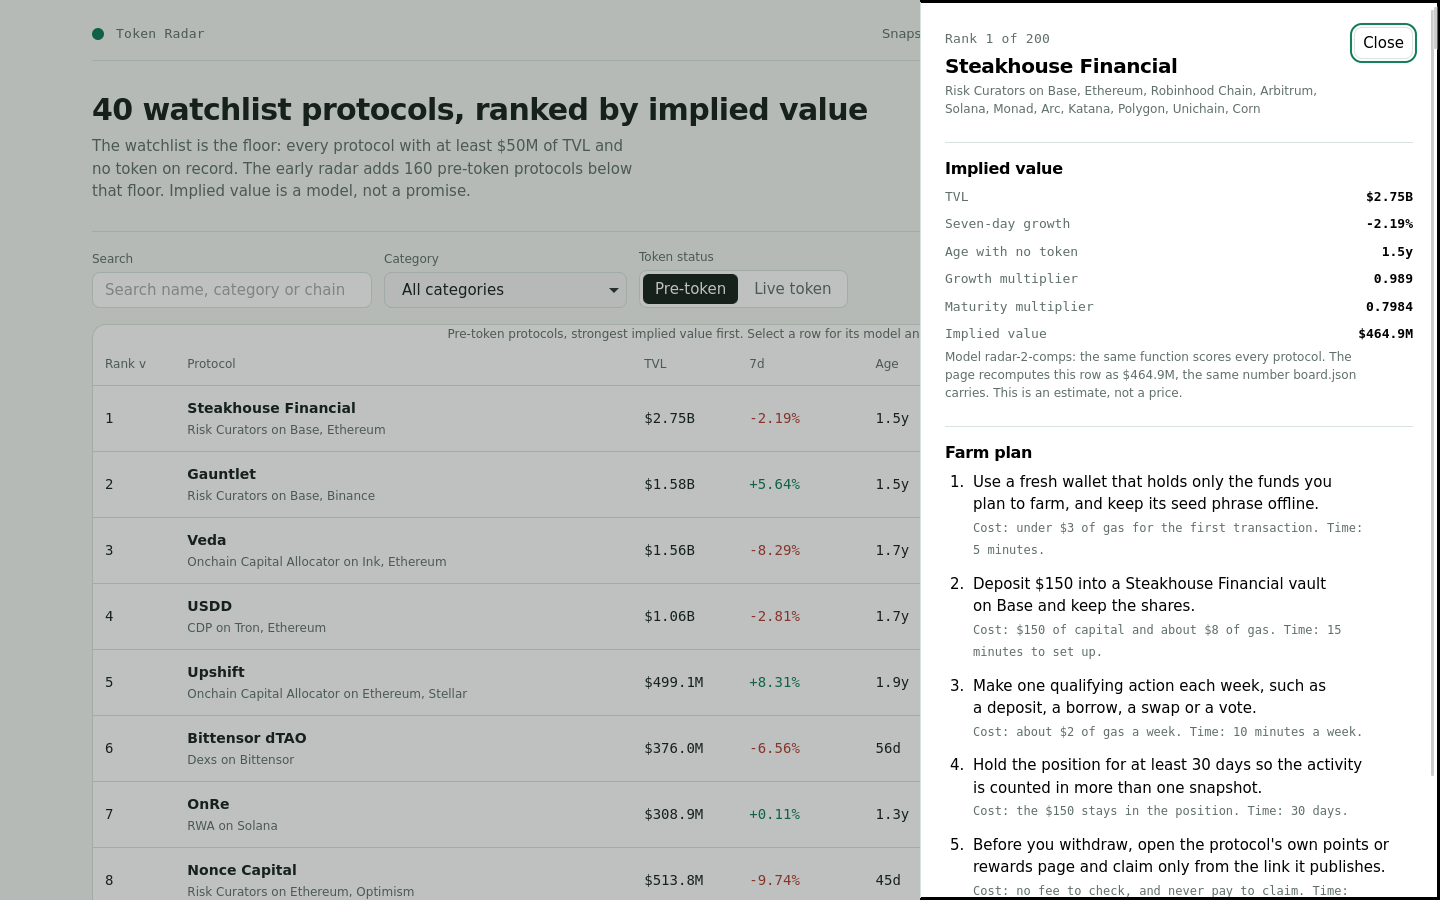
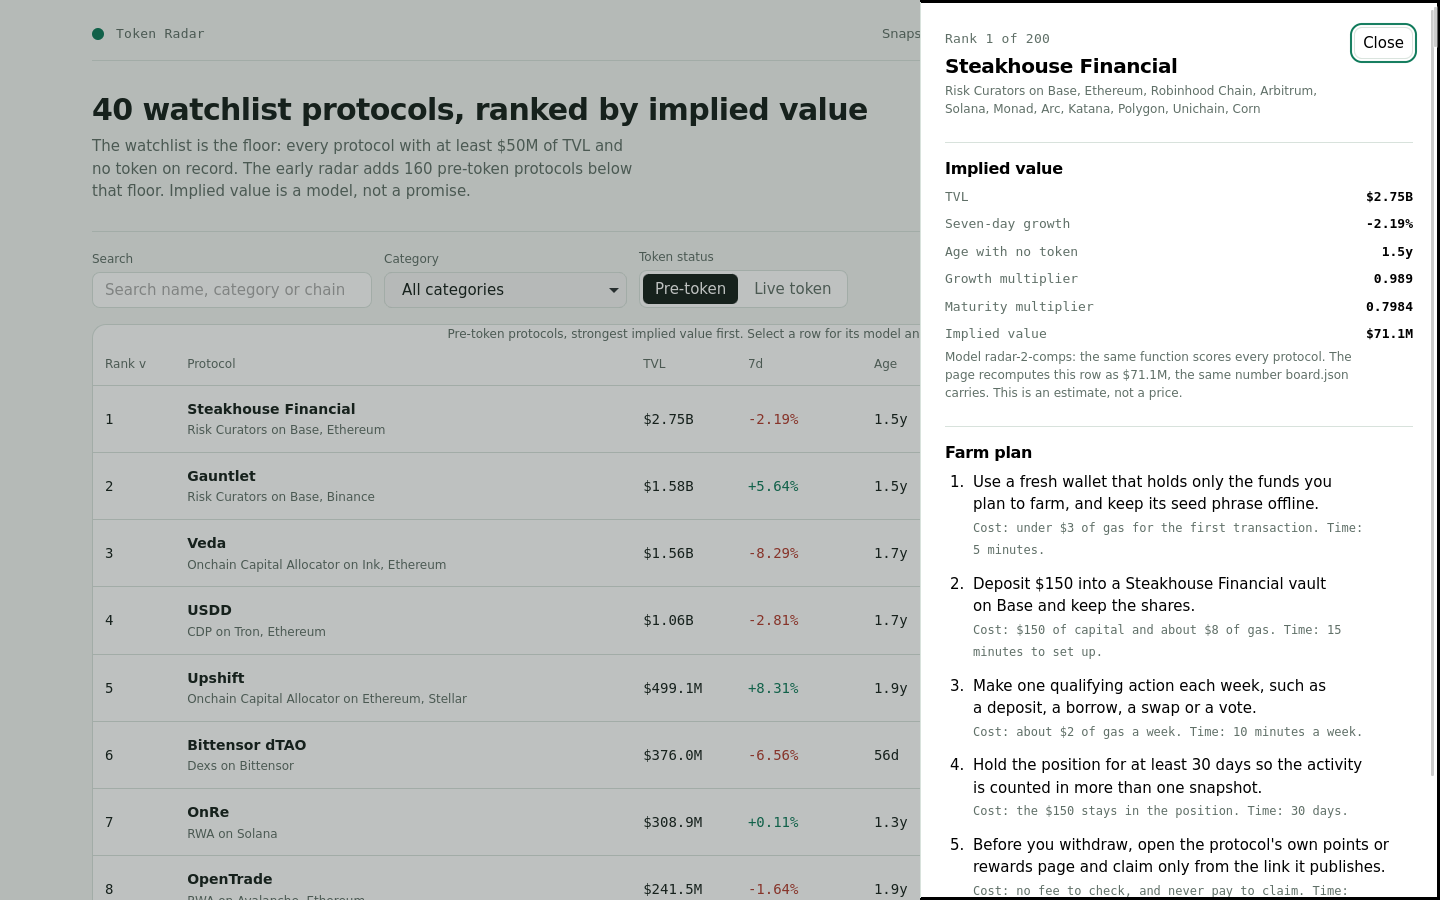
radar-2-comps: log-log size curve + walk-forward validation shown + farm/thin/skip verdicts with net economics

diff --git a/lib/model.ts b/lib/model.ts
@@ -77,6 +77,19 @@ export interface Comps {
   global: number;
   byCategory: Record<string, CompMultiple>;
   live_n: number;
+  validation: Validation;
+  scale_slope: number;
+  ref_tvl: number;
+  reg_a: number;
+  reg_b: number;
+}
+
+/** Out-of-sample test of the comps curve: fit on a train split, predict the held-out live tokens. */
+export interface Validation {
+  train_n: number;
+  test_n: number;
+  median_ape: number;
+  within_2x: number;
 }
 
 /** The median of a non-empty list of numbers. */
@@ -112,14 +125,60 @@ export function fitComps(snapshot: Snapshot): Comps {
   for (const [c, list] of groups) {
     if (list.length >= 3) byCategory[c] = { multiple: clampMultiple(median(list)), n: list.length };
   }
-  return { global, byCategory, live_n: live.length };
+  const validation = walkForward(live);
+  const { a, b } = logLogFit(live);
+  return { global, byCategory, live_n: live.length, validation, scale_slope: b, ref_tvl: median(live.map((p) => p.tvl_usd)), reg_a: a, reg_b: b };
 }
 
-/** The launch multiple one protocol inherits: its category's fitted comp, else the global median. */
+/** OLS fit of log(mcap) = a + b*log(tvl) on the live tokens: the size curve the launch value follows. */
+function logLogFit(live: SnapshotProtocol[]): { a: number; b: number } {
+  const xs = live.map((p) => Math.log(p.tvl_usd));
+  const ys = live.map((p) => Math.log(p.mcap_usd as number));
+  const n = xs.length;
+  if (n < 2) return { a: Math.log(MODEL.base_multiple), b: 1 };
+  const mx = xs.reduce((s, x) => s + x, 0) / n;
+  const my = ys.reduce((s, y) => s + y, 0) / n;
+  let num = 0, den = 0;
+  for (let i = 0; i < n; i++) { num += (xs[i]! - mx) * (ys[i]! - my); den += (xs[i]! - mx) ** 2; }
+  const b = den > 0 ? num / den : 1;
+  return { a: my - b * mx, b: Math.max(0.2, Math.min(1.8, b)) };
+}
+
+/** The regression's predicted mcap for a TVL, clamped to a sane launch range relative to TVL. */
+function regMcap(tvl: number, a: number, b: number): number {
+  return Math.exp(a + b * Math.log(tvl));
+}
+
+/** Walk-forward test: hold out every third live token, fit the log-log curve on the rest, predict the held-out mcap, and report the median absolute percentage error and the share within 2x. */
+function walkForward(live: SnapshotProtocol[]): Validation {
+  const train = live.filter((_, i) => i % 3 !== 0);
+  const test = live.filter((_, i) => i % 3 === 0);
+  const { a, b } = logLogFit(train);
+  const apes: number[] = [];
+  let within = 0;
+  for (const p of test) {
+    const pred = regMcap(p.tvl_usd, a, b);
+    const actual = p.mcap_usd as number;
+    apes.push(Math.abs(pred - actual) / actual);
+    const ratio = pred / actual;
+    if (ratio >= 0.5 && ratio <= 2) within++;
+  }
+  return {
+    train_n: train.length,
+    test_n: test.length,
+    median_ape: apes.length > 0 ? median(apes) : 0,
+    within_2x: test.length > 0 ? within / test.length : 0,
+  };
+}
+
+/** The launch multiple one protocol inherits: the log-log size curve's prediction for its TVL, tilted by how its category's median comp sits relative to the global median. */
 export function multipleFor(p: SnapshotProtocol, comps: Comps): number {
+  if (p.tvl_usd <= 0) return comps.global;
+  const regMult = regMcap(p.tvl_usd, comps.reg_a, comps.reg_b) / p.tvl_usd;
   const c = p.category ?? 'Uncategorized';
   const hit = comps.byCategory[c];
-  return hit !== undefined ? hit.multiple : comps.global;
+  const tilt = hit !== undefined && comps.global > 0 ? Math.max(0.5, Math.min(2, hit.multiple / comps.global)) : 1;
+  return clampMultiple(regMult * tilt);
 }
 
 /** How many pre-token protocols below the watchlist floor the early radar carries, by TVL. */
@@ -159,6 +218,8 @@ export interface BoardRow {
     age_days: number | null;
   };
   farm_steps: string[];
+  verdict: 'farm' | 'thin' | 'skip';
+  expected_net_usd: number;
 }
 
 /** The dashboard's compact view of one row, with farm plans generated in the page. */
@@ -177,6 +238,8 @@ export interface RadarRow {
   growth_multiplier: number;
   maturity_multiplier: number;
   base_multiple: number;
+  verdict: 'farm' | 'thin' | 'skip';
+  expected_net_usd: number;
 }
 
 /** A live-token protocol: it already trades, so the board shows the market's own value, not a model's. */
@@ -269,6 +332,32 @@ export interface BoardSummary {
   live_size: number;
 }
 
+/** A farm's netted economics: expected airdrop capture minus capital and gas, and a farm/thin/skip verdict. */
+export interface FarmEcon {
+  verdict: 'farm' | 'thin' | 'skip';
+  net: number;
+}
+
+/**
+ * Net expected value of farming one protocol, from its own implied value and age. A launch is assumed
+ * to distribute 5% of its implied value to early users; a single modest position captures about 0.02%
+ * of that pool (the share one wallet of many earns). Capital is the position size from capitalFor and
+ * gas is a flat setup plus weekly cost over the hold window. The verdict is farm when net exceeds $50,
+ * thin when it is positive but small, skip when the expected capture does not cover the cost. No name
+ * is special-cased; every figure follows from the snapshot-derived implied value and the protocol's age.
+ */
+export function farmVerdict(p: SnapshotProtocol, implied: number, age: number | null): FarmEcon {
+  const capital = capitalFor(p);
+  const hold = holdDaysFor(age);
+  const weeks = Math.max(1, Math.ceil(hold / 7));
+  const airdropPool = implied * 0.05;
+  const capture = airdropPool * 0.0002;
+  const gas = 8 + weeks * 2;
+  const net = Math.round(capture - gas);
+  const verdict: FarmEcon['verdict'] = net > 50 ? 'farm' : net > 0 ? 'thin' : 'skip';
+  return { verdict, net };
+}
+
 /** The protocols the board ranks, strongest first, with ranks 1..n. */
 export function buildBoard(snapshot: Snapshot, model: ModelConstants = MODEL, comps: Comps = fitComps(snapshot)): BoardRow[] {
   const index = bySlug(snapshot.protocols);
@@ -290,7 +379,8 @@ export function buildBoard(snapshot: Snapshot, model: ModelConstants = MODEL, co
   const scored = [...chosen.values()].map((p) => {
     const baseMultiple = round4(multipleFor(p, comps));
     const { implied, growthPct, growthMult, maturityMult, age } = impliedValue(p, snapshot.as_of, model, baseMultiple);
-    return { p, implied, growthPct, growthMult, maturityMult, age, baseMultiple };
+    const econ = farmVerdict(p, implied, age);
+    return { p, implied, growthPct, growthMult, maturityMult, age, baseMultiple, verdict: econ.verdict, net: econ.net };
   });
   scored.sort((a, b) => b.implied - a.implied || (a.p.slug < b.p.slug ? -1 : a.p.slug > b.p.slug ? 1 : 0));
   return scored.map((s, i) => ({
@@ -316,6 +406,8 @@ export function buildBoard(snapshot: Snapshot, model: ModelConstants = MODEL, co
       age_days: s.age,
     },
     farm_steps: farmSteps(s.p, s.age).map(stepText),
+    verdict: s.verdict,
+    expected_net_usd: s.net,
   }));
 }
 
@@ -444,6 +536,8 @@ export function radarRow(row: BoardRow): RadarRow {
     growth_multiplier: row.model.growth_multiplier,
     maturity_multiplier: row.model.maturity_multiplier,
     base_multiple: row.model.base_multiple,
+    verdict: row.verdict,
+    expected_net_usd: row.expected_net_usd,
   };
 }
 

diff --git a/dashboard/app.js b/dashboard/app.js
@@ -235,7 +235,7 @@
           el('div', { class: 'bar', 'aria-hidden': 'true' }, el('i', { style: 'width:' + Math.max(3, Math.round((r.implied_value_usd / max) * 100)) + '%' })),
           el('span', { class: 'num', text: fmtUsd(r.implied_value_usd) })
         )),
-        el('td', null, el('span', { class: 'status', text: 'no token' }))
+        el('td', null, el('span', { class: 'verdict verdict-' + r.verdict, text: r.verdict }), el('span', { class: 'sub net', text: (r.expected_net_usd >= 0 ? '+$' : '-$') + Math.abs(r.expected_net_usd) }))
       );
       tbody.appendChild(tr);
     });
@@ -250,7 +250,7 @@
             sortHeader('growth', '7d'),
             sortHeader('age', 'Age'),
             sortHeader('implied', 'Implied value'),
-            el('th', { scope: 'col', text: 'Token' })
+            el('th', { scope: 'col', text: 'Farm verdict' })
           )),
           tbody
         )
@@ -294,10 +294,11 @@
     });
     return el('section', { class: 'panel model' },
       el('h2', { text: 'How implied value is computed' }),
-      el('p', { class: 'sub', text: 'Model ' + DATA.model_version + ': the launch multiple is fitted from the snapshot’s own live tokens, not a flat guess. For each category with at least three traded protocols, the median mcap/TVL is the multiple a pre-token peer inherits; thinner categories fall back to the global median ' + c.global.toFixed(3) + 'x fitted on ' + c.live_n + ' live tokens. No protocol name is special-cased.' }),
+      el('p', { class: 'sub', text: 'Model ' + DATA.model_version + ': a log-log size curve log(mcap) = a + b·log(TVL) is fitted on the snapshot’s ' + c.live_n + ' live tokens (b = ' + c.reg_b.toFixed(3) + '), then tilted by how each category’s median mcap/TVL sits against the global median ' + c.global.toFixed(3) + 'x. No protocol name is special-cased and no external price is read.' }),
       el('div', { class: 'formula' },
-        'implied = round( tvl_usd x comp_multiple(category) x (1 + clamp(change_7d, ' + m.growth_floor + ', ' + m.growth_cap + ') / 100 x ' + m.growth_weight + ') x (' + m.maturity_floor + ' + min(age_days, ' + m.maturity_days + ') / ' + m.maturity_days + ' x ' + m.maturity_range + ') )'
+        'implied = round( tvl_usd x curve_multiple(TVL, category) x (1 + clamp(change_7d, ' + m.growth_floor + ', ' + m.growth_cap + ') / 100 x ' + m.growth_weight + ') x (' + m.maturity_floor + ' + min(age_days, ' + m.maturity_days + ') / ' + m.maturity_days + ' x ' + m.maturity_range + ') )'
       ),
+      el('p', { class: 'sub', text: 'Walk-forward test: the curve is refitted on ' + c.validation.train_n + ' live tokens and predicts the ' + c.validation.test_n + ' held out. Median absolute error ' + Math.round(c.validation.median_ape * 100) + '%, and ' + Math.round(c.validation.within_2x * 100) + '% of held-out market caps land within 2x of the prediction. The board states this error rather than hiding it: a launch value is an estimate, not a price.' }),
       el('table', { class: 'comp-table' },
         el('thead', null, el('tr', null, el('th', { text: 'Category' }), el('th', { text: 'Live comps' }), el('th', { text: 'Fitted multiple' }))),
         el('tbody', null, compRows)

diff --git a/dashboard/app.css b/dashboard/app.css
@@ -131,6 +131,11 @@ tbody tr[data-selected="true"] { background: color-mix(in srgb, var(--accent) 8%
 .comp-table td, .comp-table th { padding: var(--step-2) var(--step-3); }
 .comp-table tbody tr { cursor: default; }
 .comp-table tbody tr:hover { background: none; }
+.verdict { display: inline-block; padding: 2px 8px; border-radius: 999px; font-size: 11px; font-weight: 600; text-transform: uppercase; letter-spacing: 0.04em; }
+.verdict-farm { background: color-mix(in srgb, var(--accent) 18%, var(--surface)); color: var(--accent); }
+.verdict-thin { background: color-mix(in srgb, #d9a441 20%, var(--surface)); color: #b07d1e; }
+.verdict-skip { background: color-mix(in srgb, var(--negative) 14%, var(--surface)); color: var(--negative); }
+.net { display: block; margin-top: 2px; font-family: var(--font-num); }
 
 @media (max-width: 900px) {
   .shell { padding: var(--step-4); }
